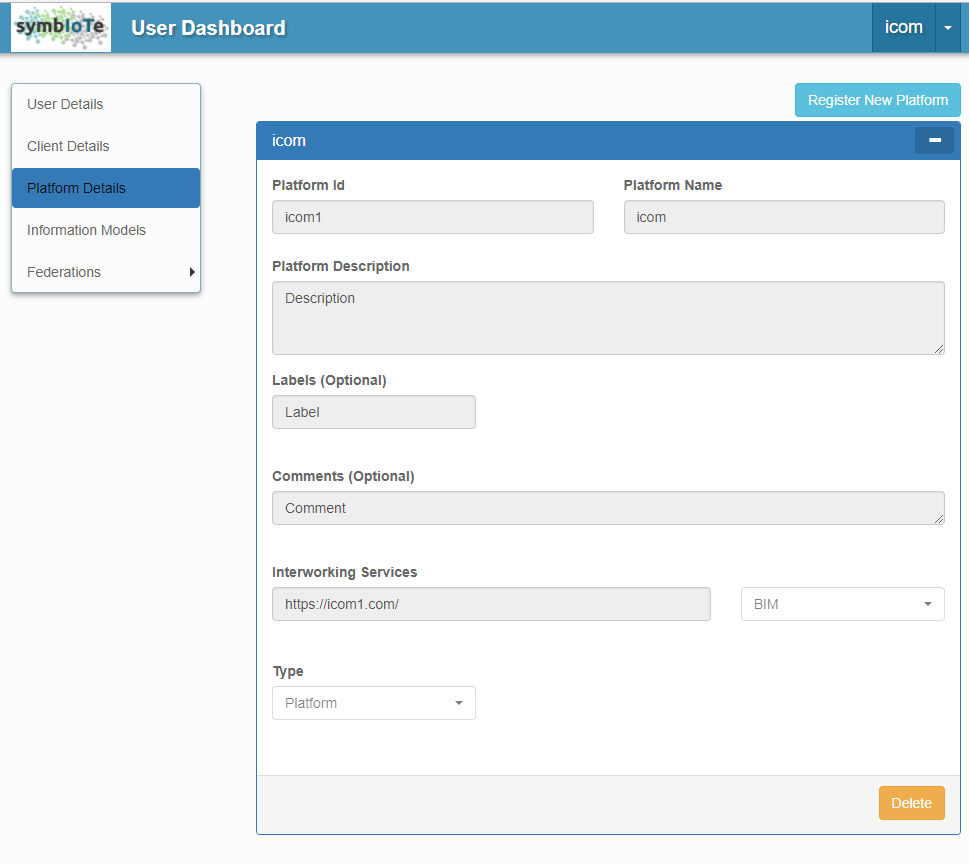
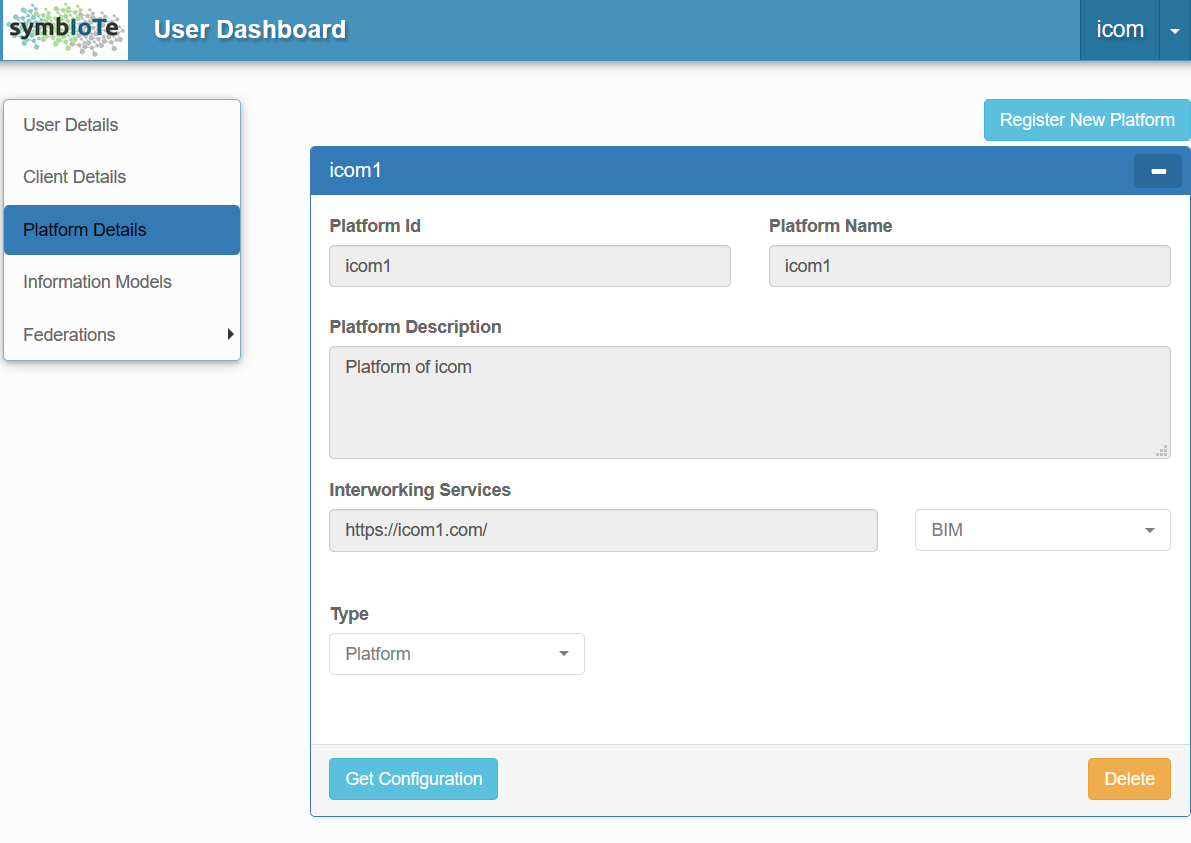
Updated documentation with Get Configuration feature

diff --git a/README.md b/README.md
@@ -244,8 +244,6 @@ Then, you have to provide the following details:
 - Preferable platform id (or leave empty for autogeneration)
 - Platform Name
 - Platform Description
-- Labels (Optional)
-- Comments (Optional)
 - Interworking Interface url
 - Interworking Interface information model
 - Type (i.e. Platform or Enabler)
@@ -255,6 +253,12 @@ Then, you have to provide the following details:
 Then, you will see the panel of the newly registered Platform and check its details by clicking on its header.
 
 ![Platform Details](https://github.com/symbiote-h2020/SymbioteCloud/raw/master/resources/figures/platform_details.png "Platform Details")
+
+You can also download platform configuration files by clicking on the ***Get Configuration*** button and enter some details.
+By doing so, you can download a ***.zip*** folder containing platform configuration properties, which can simplify the 
+components' configuration process.
+
+![Get Platform Configuration](https://github.com/symbiote-h2020/SymbioteCloud/raw/master/resources/figures/get_platform_configuration.png "Get Platform Configuration")
 
 If you want to use another information model, not currently available in the symbIoTe Core, then you can upload your own information model. To do so, go to the **_Information Model_** panel and click on the **_Register New Information Model_** button.
 
@@ -290,23 +294,39 @@ A PIM is an OWL2 ontology with some special characteristics:
 
 ### 2.3 Configuration of the symbIoTe Cloud components
 
-Before starting symbIoTe Cloud components we need to provide proper configuration in the _CloudConfigProperties_ component. Please edit _application.properties_ file contained in this component and provide the following information:
-
+Before starting symbIoTe Cloud components we need to provide proper configuration in the CloudConfigProperties component 
+and to be more precise the  application.properties file contained in this component. If you have downloaded the ***.zip***
+containing the configuration files, then you can just replace it with file contained in the CloudConfigProperties folder.
+Otherwise, you will have to edit it yourselves providing the following information:
 ```
+#################################################################
+## Platform config
+#################################################################
+ 
+platform.id=<TODO set properly>
+ 
+#################################################################
+## AMQP config
+#################################################################
+ 
 rabbit.host=<TODO set properly>
 rabbit.username=<TODO set properly (e.g. guest for localhost)>
 rabbit.password=<TODO set properly (e.g. guest for localhost)>
-
-platform.id=<TODO set properly>
-
-symbIoTe.coreaam.url=<TODO set properly (format: https://{CoreInterfaceHost}:8100/coreInterface/v1)>
-symbIoTe.core.cloud.interface.url=<TODO set properly (format: https://{CoreInterfaceHost}:8101/cloudCoreInterface/v1)>
-
-symbIoTe.interworking.interface.url=<TODO set properly (format: http://{nginxIp}:8102/cloudCoreInterface/v1 e.g. http://localhost:8102/cloudCoreInterface/v1)>
-symbIoTe.localaam.url=<TODO set properly (format: https://{CoreInterfaceHost}:8100/coreInterface/v1 if you do not want to always use your local AAM)>
+ 
+#################################################################
+## SymbIoTe Security Config
+#################################################################
+ 
+symbIoTe.core.interface.url=<TODO set properly (format: https://{CoreInterfaceHost}:8100/coreInterface/v1)>
+symbIoTe.core.cloud.interface.url=<TODO set properly (format: https://{CloudCoreInterfaceHost}:8101/cloudCoreInterface/v1)>
+  
+symbIoTe.interworking.interface.url=<TODO set properly (format: http://{HostName}:{nginx_port}/cloudCoreInterface/v1 e.g. http://mysymbiote:8102/cloudCoreInterface/v1)>
+symbIoTe.localaam.url=<TODO set properly (format: https://{HostName}:{nginx_port}/paam needed to initialize your components use your local AAM e.g. https://mysymbiote.com:8102/paam>
 ```
 
-Also, there are some component-specific configurations that need to be applied in each cloud component's **bootstrap.properties** file. They are also marked with ***TODO***.
+Also, there are some component-specific configurations that need to be applied in each cloud component's 
+***bootstrap.properties*** file. They are also marked with ***TODO***.  You can also find them in the **.zip** under the respective 
+component's folder.
 
 _Hint: Some people like to run the same jar on different machines (think development vs. production here). This often means different settings for the different machines._
 
@@ -319,11 +339,14 @@ _In this case having a bootstrap.properties file WITHIN the jar is not convenien
 
 Once a platform instance is registered through Administration module, the Platform owner should generate himself a symbiote intermediate certification authority keystore for the PAAM.
 
-For that please use the  [PlatformAAMCertificateKeystoreFactory](https://github.com/symbiote-h2020/SymbIoTeSecurity/blob/develop/src/main/java/eu/h2020/symbiote/security/helpers/PlatformAAMCertificateKeyStoreFactory.java) (available in SymbioTeSecurity module). You need to checkout the code, modify the parameters in the main method and after running it, it will generate the keystore that you can copy to your platform AAM deployment.
-
+For that please use the  [PlatformAAMCertificateKeystoreFactory](https://github.com/symbiote-h2020/SymbIoTeSecurity/blob/develop/src/main/java/eu/h2020/symbiote/security/helpers/PlatformAAMCertificateKeyStoreFactory.java) 
+(available in SymbioTeSecurity module). You need to checkout the code, modify the parameters in the main method and 
+after running it, it will generate the keystore that you can copy to your platform AAM deployment. If you have downloaded
+the **.zip** with the configuration files, you can find the *PlatformAAMCertificateKeystoreFactory* configured in the 
+*SymbIoTeSecurity* folder.
 ```
 // from spring bootstrap file: symbiote.coreaam.url
-String coreAAMAddress = "";
+String coreAAMAddress = "";   
 
 // the user registered through administration in the Symbiote Core
 String platformOwnerUsername = "";
@@ -404,7 +427,9 @@ If you do not want to use KeyStore Explorer find some helpful resources below:
 
 #### 2.4.3 Configuring the Platform AAM resources
 
-Once one has done previous actions, you need to fix the file `src/main/resources/bootstrap.properties` manually for each deployment using the template below or comments from the file itself.
+Once one has done previous actions, you need to fix the file `src/main/resources/bootstrap.properties`. If you have 
+downloaded the .zip with the configuration files, you can use the bootstrap.properties file inside the AAM folder. 
+Otherwise, you have to edit manually for each deployment using the template below or comments from the file itself.
 
 ```
 spring.cloud.config.enabled=true
